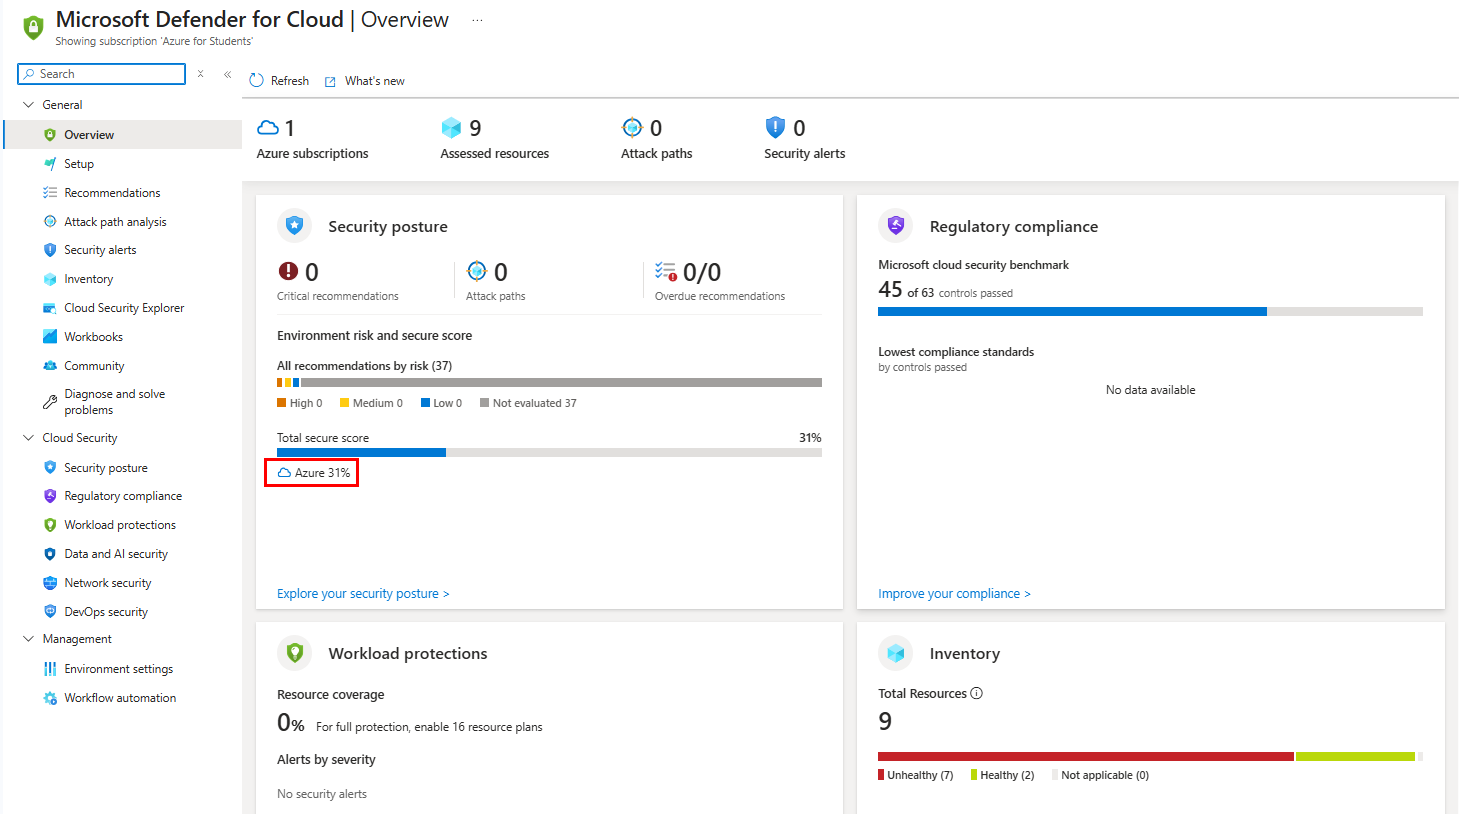
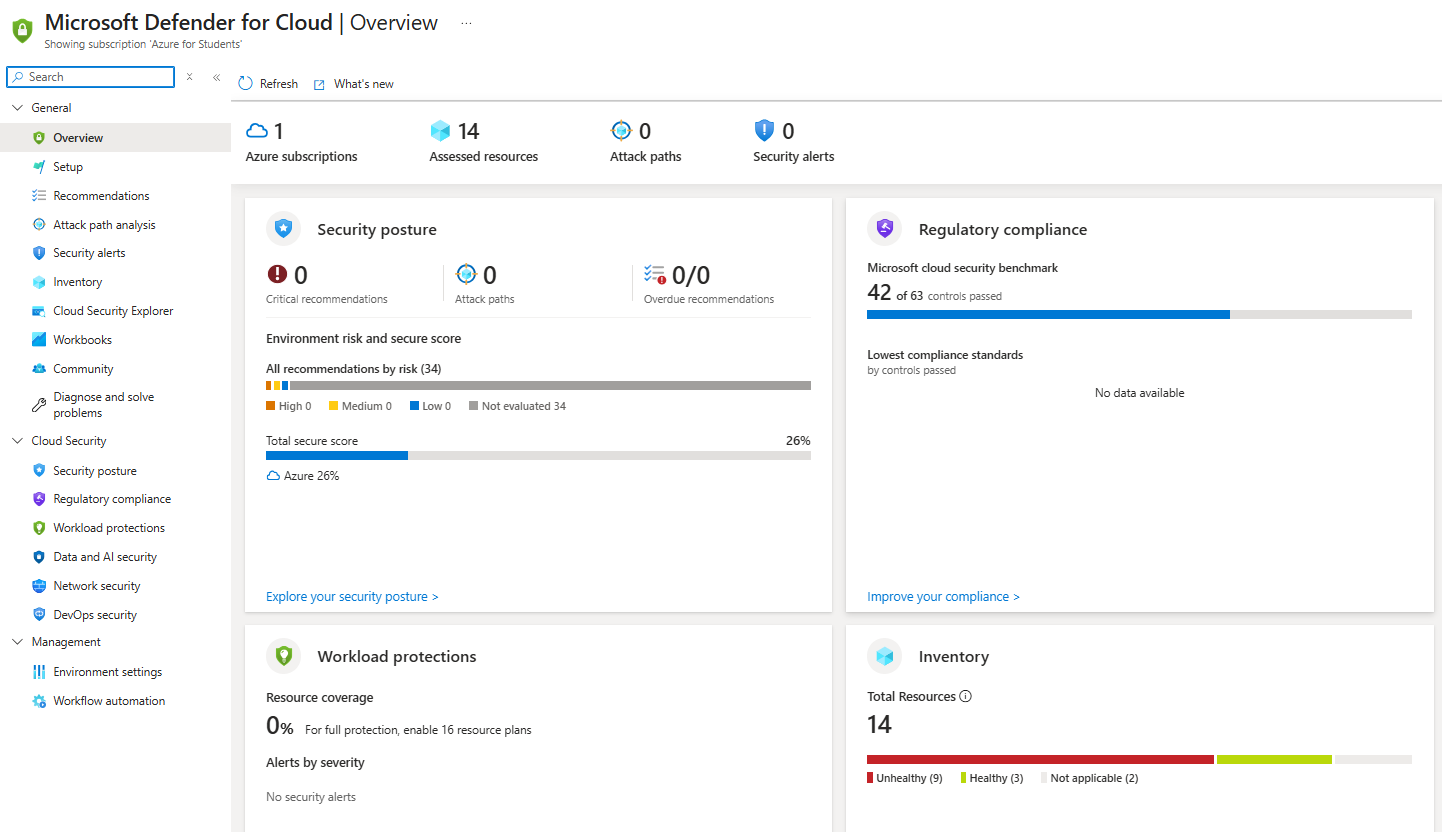
Complete A6: Defender for Cloud recommendations + NSG RDP fix

diff --git a/README.md b/README.md
@@ -146,15 +146,26 @@ Set up basic monitoring on the VM with a CPU metric chart and an alert rule that
 ---
 
 ### 6️⃣ Security Check (Defender for Cloud) 🛡️
-Reviewed the **Secure Score** in Microsoft Defender for Cloud (Foundational CSPM, free tier).
+Reviewed the **Secure Score** and security recommendations in Microsoft Defender for Cloud (Foundational CSPM, free tier). Found and fixed a real security gap — the open RDP rule that was intentionally left as "Any" in A1 was detected and restricted to a specific IP.
 
 - ✅ Secure Score reviewed (**31%**)
-- ⚠️ Recommendations review & fix: **not completed** — Defender's resource inventory had not finished syncing the newly created resources (`vm-app01`, `vm-mgmt01`, NSGs, Storage Account) within the project timeframe, even though the Foundational CSPM plan was active with full coverage. This is a known sync-delay behavior on fresh Azure for Students subscriptions.
+- ✅ Recommendations filtered for `rg-cloudstart` (9 findings across `vm-app01` and `stcloudstartmr`)
+- ✅ "Management ports should be closed" recommendation reviewed and applied
+- ✅ `nsg-app` → `Allow-RDP` rule: Source changed from `Any` → own IP address (`/32`)
+
+> 💡 **Before:** RDP port open to the entire internet (`Any`)
+> 💡 **After:** RDP port restricted to a single trusted IP address
+
+> ⚠️ **Lesson learned:** Defender for Cloud's recommendation engine can take several hours (sometimes up to 24h) to fully index brand-new resources, even when the plan itself is active immediately. Planning security reviews a day after resource creation avoids this gap.
 
 📸
-![Secure Score](./screenshots/a6-defender/01-secure-score.png)
+| Secure Score | Recommendations list |
+|---|---|
+| ![Secure Score](./screenshots/a6-defender/01-secure-score.png) | ![Recommendations list](./screenshots/a6-defender/02-recommendations-list.png) |
 
-> 💡 **Lesson learned:** Defender for Cloud's recommendation engine can take several hours (sometimes up to 24h) to fully index brand-new resources, even when the plan itself is active immediately. Planning security reviews a day after resource creation — rather than back-to-back — would avoid this gap.
+| Management ports recommendation | NSG RDP rule fixed |
+|---|---|
+| ![Management ports](./screenshots/a6-defender/03-management-ports-recommendation.png) | ![NSG RDP fix](./screenshots/a6-defender/04-nsg-rdp-fix.png) |
 
 ---
 
@@ -359,15 +370,26 @@ Basis-Monitoring auf der VM eingerichtet — CPU-Metrik-Diagramm plus Alert-Rege
 ---
 
 ### 6️⃣ Sicherheitscheck (Defender for Cloud) 🛡️
-**Secure Score** in Microsoft Defender for Cloud überprüft (Foundational CSPM, kostenloser Tier).
+**Secure Score** und Sicherheitsempfehlungen in Microsoft Defender for Cloud überprüft (Foundational CSPM, kostenloser Tier). Eine echte Sicherheitslücke gefunden und behoben — die in A1 absichtlich offen gelassene RDP-Regel wurde von Defender erkannt und auf eine konkrete IP-Adresse eingeschränkt.
 
 - ✅ Secure Score überprüft (**31%**)
-- ⚠️ Empfehlungen prüfen & umsetzen: **nicht abgeschlossen** — Defenders Ressourcen-Inventar hatte die neu erstellten Ressourcen (`vm-app01`, `vm-mgmt01`, NSGs, Storage Account) innerhalb des Projektzeitraums noch nicht vollständig synchronisiert, obwohl der Foundational-CSPM-Plan aktiv war und volle Abdeckung zeigte. Dies ist ein bekanntes Synchronisierungsverhalten bei frischen Azure-for-Students-Subscriptions.
+- ✅ Empfehlungen für `rg-cloudstart` gefiltert (9 Findings für `vm-app01` und `stcloudstartmr`)
+- ✅ Empfehlung "Management ports should be closed" geprüft und umgesetzt
+- ✅ `nsg-app` → `Allow-RDP`: Source von `Any` → eigene IP-Adresse (`/32`) geändert
+
+> 💡 **Vorher:** RDP-Port für das gesamte Internet offen (`Any`)
+> 💡 **Nachher:** RDP-Port auf eine einzige vertrauenswürdige IP-Adresse eingeschränkt
+
+> ⚠️ **Erkenntnis:** Defender for Cloud's Empfehlungs-Engine kann mehrere Stunden (manchmal bis zu 24h) brauchen, um brandneue Ressourcen vollständig zu indexieren — auch wenn der Plan selbst sofort aktiv ist. Sicherheitsüberprüfungen einen Tag nach der Ressourcenerstellung einzuplanen, vermeidet diese Lücke.
 
 📸
-![Secure Score](./screenshots/a6-defender/01-secure-score.png)
+| Secure Score | Empfehlungsliste |
+|---|---|
+| ![Secure Score](./screenshots/a6-defender/01-secure-score.png) | ![Empfehlungsliste](./screenshots/a6-defender/02-recommendations-list.png) |
 
-> 💡 **Erkenntnis:** Defender for Cloud's Empfehlungs-Engine kann mehrere Stunden (manchmal bis zu 24h) brauchen, um brandneue Ressourcen vollständig zu indexieren — auch wenn der Plan selbst sofort aktiv ist. Sicherheitsüberprüfungen einen Tag nach der Ressourcenerstellung einzuplanen, statt direkt im Anschluss, würde diese Lücke vermeiden.
+| Management Ports Empfehlung | NSG RDP-Regel behoben |
+|---|---|
+| ![Management Ports](./screenshots/a6-defender/03-management-ports-recommendation.png) | ![NSG RDP Fix](./screenshots/a6-defender/04-nsg-rdp-fix.png) |
 
 ---
 